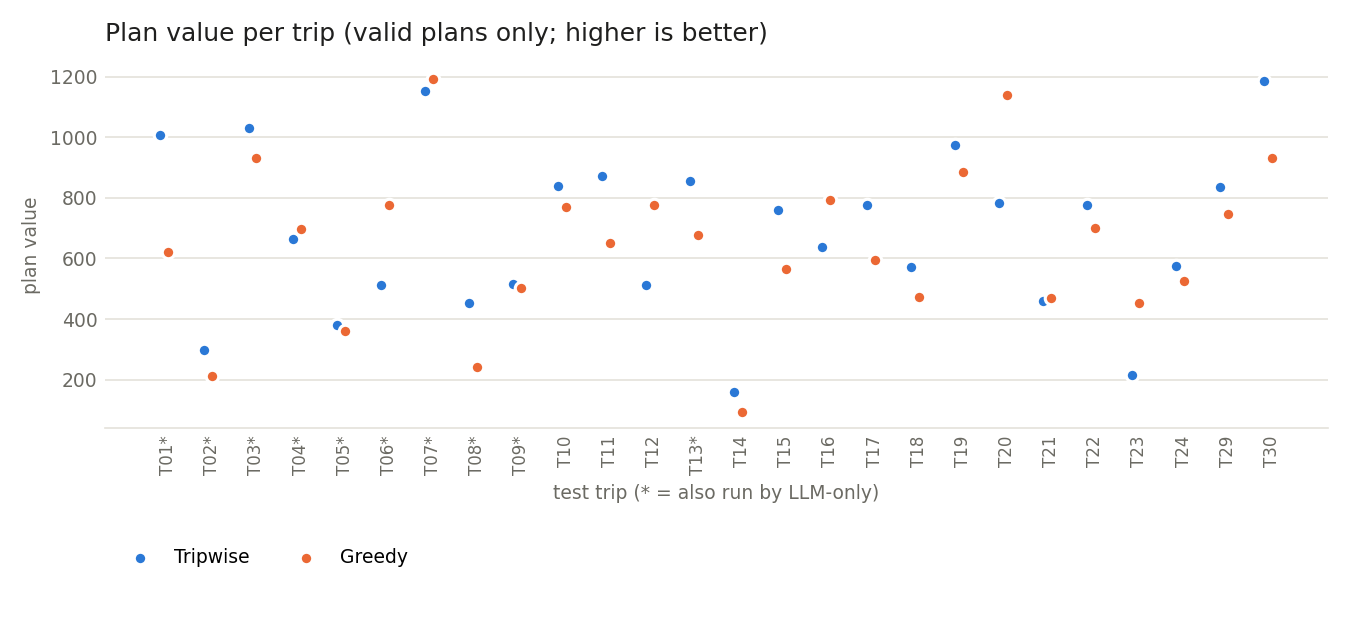
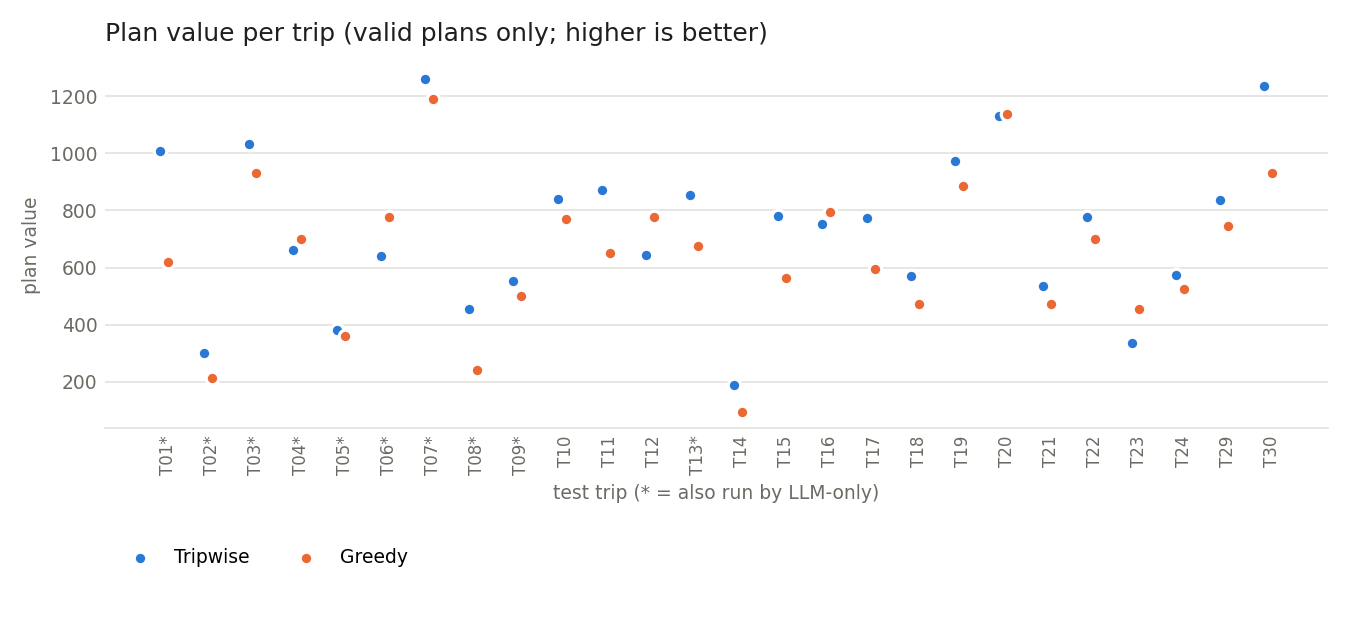
feat(002): fill step after exact routing (ENG-FR-13) and a routing retry for mandatory locks; Tripwise mean value 684.7 -> 729.5, greedy wins 8 -> 6 of 26; ENG-AT-08 p95 559 ms, VAR-AT-03 p95 1,761 ms; all 002 and 007 tests pass [ENG-FR-04, ENG-FR-13, FR-010, EVAL-FR-02]

Changed region(s): [[0.0311, 0.2111, 0.9644, 0.5429], [0.0311, 0.1206, 0.9644, 0.181], [0.0311, 0.573, 0.9644, 0.6333]]

diff --git a/backend/tripwise/stage2.py b/backend/tripwise/stage2.py
@@ -126,6 +126,9 @@ class Routed:
     dropped: list         # [Attraction] chosen in stage 1 but not scheduled
 
 
+LOCK_PENALTY = 10_000_000
+
+
 def route(ds: Dataset, cfg: Config, req: TripRequest, hotel: Hotel, windows: list, chosen: list, v: dict) -> Routed:
     city = req.destination
     locks = set(req.fixed_ids())
@@ -143,36 +146,45 @@ def route(ds: Dataset, cfg: Config, req: TripRequest, hotel: Hotel, windows: lis
         visit = [0] + [a.visit for a in nodes]
         n = len(ids)
         travel = [[0 if i == j else ds.travel(city, ids[i], ids[j])[1] for j in range(n)] for i in range(n)]
-        mgr = pywrapcp.RoutingIndexManager(n, len(active), 0)
-        rt = pywrapcp.RoutingModel(mgr)
+        def solve(soft: bool):
+            mgr = pywrapcp.RoutingIndexManager(n, len(active), 0)
+            rt = pywrapcp.RoutingModel(mgr)
 
-        # node-indexed matrices registered in C++ (no Python callbacks in the search loop)
-        t_cb = rt.RegisterTransitMatrix([[visit[i] + travel[i][j] for j in range(n)] for i in range(n)])
-        rt.SetArcCostEvaluatorOfAllVehicles(rt.RegisterTransitMatrix(travel))
-        rt.AddDimension(t_cb, 1440, 1440, False, "time")
-        tdim = rt.GetDimensionOrDie("time")
-        c_cb = rt.RegisterUnaryTransitVector([0] + [1] * (n - 1))
-        rt.AddDimensionWithVehicleCapacity(c_cb, 0, [w.max_count for w in active], True, "count")
-        # Lunch is not a routing break (breaks slow the search 25-50x): the span bound U_d already leaves
-        # the lunch hour free, and the exact pass places lunch (Changelog 2026-10-25).
-        for vi, w in enumerate(active):
-            tdim.CumulVar(rt.Start(vi)).SetRange(w.start, w.end)
-            tdim.CumulVar(rt.End(vi)).SetRange(w.start, w.end)
-            tdim.SetSpanUpperBoundForVehicle(w.usable, vi)
-        for k, a in enumerate(nodes, start=1):
-            idx = mgr.NodeToIndex(k)
-            hi = a.open if a.fixed_slot else a.close - a.visit
-            tdim.CumulVar(idx).SetRange(a.open, max(a.open, hi))
-            rt.VehicleVar(idx).SetValues([-1] + allowed[a.attraction_id])   # -1: dropped
-            if a.attraction_id not in locks:
-                rt.AddDisjunction([idx], round(1000 * v[a.attraction_id]))
-        params = pywrapcp.DefaultRoutingSearchParameters()
-        params.first_solution_strategy = routing_enums_pb2.FirstSolutionStrategy.PATH_CHEAPEST_ARC
-        params.local_search_metaheuristic = getattr(routing_enums_pb2.LocalSearchMetaheuristic, cfg.routing_metaheuristic)
-        if cfg.routing_solution_limit:
-            params.solution_limit = cfg.routing_solution_limit
-        params.time_limit.FromMilliseconds(int(cfg.routing_time_limit_s * 1000))
-        sol = rt.SolveWithParameters(params)
+            # node-indexed matrices registered in C++ (no Python callbacks in the search loop)
+            t_cb = rt.RegisterTransitMatrix([[visit[i] + travel[i][j] for j in range(n)] for i in range(n)])
+            rt.SetArcCostEvaluatorOfAllVehicles(rt.RegisterTransitMatrix(travel))
+            rt.AddDimension(t_cb, 1440, 1440, False, "time")
+            tdim = rt.GetDimensionOrDie("time")
+            c_cb = rt.RegisterUnaryTransitVector([0] + [1] * (n - 1))
+            rt.AddDimensionWithVehicleCapacity(c_cb, 0, [w.max_count for w in active], True, "count")
+            # Lunch is not a routing break (breaks slow the search 25-50x): the span bound U_d already leaves
+            # the lunch hour free, and the exact pass places lunch (Changelog 2026-10-25).
+            for vi, w in enumerate(active):
+                tdim.CumulVar(rt.Start(vi)).SetRange(w.start, w.end)
+                tdim.CumulVar(rt.End(vi)).SetRange(w.start, w.end)
+                tdim.SetSpanUpperBoundForVehicle(w.usable, vi)
+            for k, a in enumerate(nodes, start=1):
+                idx = mgr.NodeToIndex(k)
+                hi = a.open if a.fixed_slot else a.close - a.visit
+                tdim.CumulVar(idx).SetRange(a.open, max(a.open, hi))
+                rt.VehicleVar(idx).SetValues([-1] + allowed[a.attraction_id])   # -1: dropped
+                if a.attraction_id not in locks:
+                    rt.AddDisjunction([idx], round(1000 * v[a.attraction_id]))
+                elif soft:     # locks may drop only when no route can hold them all
+                    rt.AddDisjunction([idx], LOCK_PENALTY)
+            params = pywrapcp.DefaultRoutingSearchParameters()
+            params.first_solution_strategy = routing_enums_pb2.FirstSolutionStrategy.PATH_CHEAPEST_ARC
+            params.local_search_metaheuristic = getattr(routing_enums_pb2.LocalSearchMetaheuristic, cfg.routing_metaheuristic)
+            if cfg.routing_solution_limit:
+                params.solution_limit = cfg.routing_solution_limit
+            params.time_limit.FromMilliseconds(int(cfg.routing_time_limit_s * 1000))
+            return rt, mgr, rt.SolveWithParameters(params)
+
+        rt, mgr, sol = solve(False)
+        if sol is None and locks & {a.attraction_id for a in nodes}:
+            # with every lock mandatory the first-solution heuristic can fail outright; retry with locks as
+            # very expensive drops so the other stops make room (the engine still rejects a lock left out)
+            rt, mgr, sol = solve(True)
         if sol is None:
             dropped += nodes
         else:

diff --git a/backend/tripwise/engine.py b/backend/tripwise/engine.py
@@ -2,7 +2,7 @@
 
 plan(request) -> Plan | Infeasible | InternalError
   pre-filter → hotel loop (stage 1) → stage 2 → feedback cuts → exact costing and budget repair →
-  validator gate. Variants (variants.py) call run() with other objectives and hotel tiers.
+  fill step (ENG-FR-13) → validator gate. Variants (variants.py) call run() with other objectives and hotel tiers.
 """
 
 from __future__ import annotations
@@ -258,11 +258,61 @@ def run(ctx: Context, mode: str = "max_value", hotels: list | None = None, vstar
         routed = stage2.route(ds, cfg, req, hotel, wins, ch.chosen, ctx.v_all)
         placed = [s.attraction for d in routed.days for s in d.stops]
         b = lines(ctx, hotel, oi, ri, routed)
+    routed, b = fill(ctx, hotel, oi, ri, wins, routed, b, mode, vstar)
+    placed = [s.attraction for d in routed.days for s in d.stops]
     p = build(ctx, hotel, oi, ri, routed, b, len(hotels), iters, repairs, variant, wins, t0)
     fails = validate(p, req, ds, cfg.as_dict())
     if fails:
         return Outcome(InternalError(failures=fails), placed)
     return Outcome(p, placed)
+
+
+def fill(ctx: Context, hotel: Hotel, oi: int, ri: int, wins: list, routed: stage2.Routed, b: dict, mode: str,
+         vstar: float | None) -> tuple[stage2.Routed, dict]:
+    """Fill step (ENG-FR-13): stage 1 chose on estimates, so the exactly routed plan can leave time and money
+    unused. Try the unchosen candidates in descending v(a); put each at its cheapest position in any day where
+    the exact scheduler still fits it (hours, closed days, pace, lunch, window) and keep it only if the exact
+    cost stays within B_u and the variant's objective improves: max_value keeps any value gain; balanced needs
+    ΔV − λ·V*·Δcost/B_u > 0; min_cost (Saver) does not fill. Capped at fill_ms per plan."""
+    ds, cfg, req = ctx.ds, ctx.cfg, ctx.req
+    if mode == "min_cost":
+        return routed, b
+    deadline = time.perf_counter() + cfg.fill_ms / 1000
+    lam, B = cfg.variants["lambda"], ctx.usable
+    days = list(routed.days)
+    used = {s.attraction.attraction_id for d in days for s in d.stops}
+    value_now = plan_value(ctx, hotel, oi, ri, routed)
+    pool = sorted((a for a in ctx.filt.kept if a.attraction_id not in used and a.attraction_id not in req.pins),
+                  key=lambda a: (-ctx.v_all[a.attraction_id], a.attraction_id))
+    for a in pool:
+        if time.perf_counter() > deadline:
+            break
+        best = None
+        for i, w in enumerate(wins):
+            if not w.active or w.weekday in a.closed:
+                continue
+            order = [s.attraction for s in days[i].stops]
+            for pos in range(len(order) + 1):
+                sched = stage2.schedule_day(ds, cfg, req.destination, hotel, w, order[:pos] + [a] + order[pos:])
+                if sched is None:
+                    continue
+                trial = stage2.Routed(days[:i] + [sched] + days[i + 1:], [])
+                tb = lines(ctx, hotel, oi, ri, trial)
+                if tb["total"] > B:
+                    continue
+                key = (tb["total"], sched.back or 0, i, pos)
+                if best is None or key < best[0]:
+                    best = (key, trial, tb)
+        if best is None:
+            continue
+        _, trial, tb = best
+        gain = plan_value(ctx, hotel, oi, ri, trial) - value_now
+        if mode == "balanced":
+            gain -= lam * (vstar or 0) * (tb["total"] - b["total"]) / B
+        if gain > 0:
+            routed, b, days = trial, tb, list(trial.days)
+            value_now = plan_value(ctx, hotel, oi, ri, routed)
+    return routed, b
 
 
 def near_misses(ctx: Context, chosen_ids: set, total: int, hotel: Hotel, wins: list) -> list[NearMiss]:

diff --git a/backend/tests/test_fill.py b/backend/tests/test_fill.py
@@ -1,0 +1,59 @@
+"""Fill step (ENG-FR-13): after exact routing the engine adds unchosen candidates that still fit a day and the budget,
+per variant objective, and the result still passes the validator."""
+
+import json
+from pathlib import Path
+
+from tripwise import config, data, engine
+from tripwise.engine import Context, hotels_for, setup, tiers_for
+from tripwise.models import Plan, TripRequest
+from validator.validate import validate
+
+TRIPS = {t["id"]: t for t in json.loads((Path(__file__).resolve().parents[2] / "eval" / "test_trips.json").read_text(encoding="utf-8"))}
+
+
+def without_fill(monkeypatch, req):
+    monkeypatch.setattr(engine, "fill", lambda ctx, h, oi, ri, w, r, b, m, v: (r, b))
+    return engine.plan(req)
+
+
+def test_fill_adds_value_and_stays_valid(monkeypatch):
+    ds, cfg = data.default(), config.default()
+    req = TripRequest.model_validate(TRIPS["T06"]["request"])       # left room after routing before the fill step
+    filled = engine.plan(req)
+    assert isinstance(filled, Plan) and validate(filled, req, ds, cfg.as_dict()) == []
+    plain = without_fill(monkeypatch, req)
+    n = lambda p: sum(len(d.stops) for d in p.days)   # noqa: E731
+    assert filled.value > plain.value and n(filled) > n(plain)
+    assert filled.budget.total <= filled.budget.usable_budget
+
+
+def test_saver_does_not_fill_and_balanced_pays_for_cost():
+    ds, cfg = data.default(), config.default()
+    req = TripRequest.model_validate(TRIPS["T06"]["request"])
+    ctx = setup(req, ds, cfg)
+    assert isinstance(ctx, Context)
+    out = engine.run(ctx, "max_value", hotels_for(ds, req, tiers_for(req)))
+    exp = out.result
+    hotel = ds.hotels[exp.hotel.hotel_id]
+    # rebuild a routed plan with one stop removed, then check each objective's fill decision on it
+    from tripwise.stage2 import Routed, schedule_day
+    from tripwise.timemodel import day_windows
+    oi = next(i for i, o in enumerate(ctx.outs) if (o.mode, o.cls) == (exp.transport.outbound.mode, exp.transport.outbound.class_)
+              and engine.outbound_times(o, cfg)["depart"] == int(exp.transport.outbound.depart[:2]) * 60 + int(exp.transport.outbound.depart[3:]))
+    ri = next(i for i, r in enumerate(ctx.rets) if (r.mode, r.cls) == (exp.transport.return_.mode, exp.transport.return_.class_)
+              and engine.return_times(r, cfg)["leave_centre"] == int(exp.transport.return_.leave_centre[:2]) * 60 + int(exp.transport.return_.leave_centre[3:]))
+    wins = day_windows(req, cfg, ctx.outs[oi], ctx.rets[ri])
+    orders = [[ds.attractions[s.attraction_id] for s in d.stops] for d in exp.days]
+    last = next(i for i in range(len(orders) - 1, -1, -1) if orders[i])
+    orders[last] = orders[last][:-1]
+    routed = Routed([schedule_day(ds, cfg, req.destination, hotel, w, o) for w, o in zip(wins, orders)], [])
+    b = engine.lines(ctx, hotel, oi, ri, routed)
+    r_saver, b_saver = engine.fill(ctx, hotel, oi, ri, wins, routed, b, "min_cost", exp.value)
+    assert r_saver is routed and b_saver is b                         # Saver never fills
+    r_exp, b_exp = engine.fill(ctx, hotel, oi, ri, wins, routed, b, "max_value", None)
+    assert sum(len(d.stops) for d in r_exp.days) > sum(len(d.stops) for d in routed.days)
+    assert b_exp["total"] <= ctx.usable
+    # Balanced with a huge V* treats every rupee as expensive: nothing is added
+    r_bal, _ = engine.fill(ctx, hotel, oi, ri, wins, routed, b, "balanced", 1e9)
+    assert sum(len(d.stops) for d in r_bal.days) == sum(len(d.stops) for d in routed.days)

diff --git a/eval/run_eval.py b/eval/run_eval.py
@@ -306,8 +306,33 @@ over valid plans. Times: Tripwise and greedy on this laptop; LLM-only includes t
 ## Discussion
 
 {discussion}
+
+{HISTORY}
 """
     (ROOT / "eval" / "RESULTS.md").write_text(text, encoding="utf-8", newline="\n")
+
+
+HISTORY = """## Before and after the fill step (2026-10-26)
+
+After the first evaluation, greedy beat Tripwise on 8 of 26 trips. The engine gained a fill step (ENG-FR-13): after
+exact routing it tries the unchosen candidates in descending value and keeps each one that still fits a day and
+the budget (Experience and the single plan: any value gain; Balanced: ΔV − λ·V*·Δcost/B_u > 0; Saver: no fill).
+A routing fix came with it: when every lock is mandatory and no first route exists, routing retries with locks as
+very expensive drops instead of dropping every stop.
+
+| Tripwise, all 30 trips | Before | After |
+|---|---|---|
+| Valid plans | 26/26 | 26/26 |
+| Mean value | 684.7 | 729.5 |
+| Trips where greedy scores higher | 8 of 26 (T04, T06, T07, T12, T16, T20, T21, T23) | 6 of 26 (T04, T06, T12, T16, T20, T23) |
+| Mean budget use | 71.6% | 72.1% |
+| Mean travel share | 15.2% | 15.6% |
+| Single plan p95 / all variants p95 | 568 ms / 1,531 ms | 559 ms / 1,761 ms |
+
+The fill closed most of the stop-count gap (T20: 15 → 24 stops, value 783 → 1,131; T07 now beats greedy). Where
+greedy still wins, both planners usually have the same number of stops but greedy's are worth more (T06, T12:
+12 against 12): stage 1 chose a lower-value set and the fill can only add, not swap. A swap step is the next
+improvement."""
 
 
 DISCUSSION = """- **Feasibility.** Tripwise returned a validator-clean plan for {tw[valid]}/{tw[feasible_trips]} feasible trips and

diff --git a/SPEC.md b/SPEC.md
@@ -1170,7 +1170,18 @@ Compute the exact local travel cost from the routed legs. If the exact total exc
 
 Locked activities are never removed. If they alone break the budget, the answer is infeasible with `lock_over_budget`.
 
-###### 7.7 Validation
+###### 7.7 Fill step (ENG-FR-13, added 2026-10-26)
+
+Stage 1 selects on estimated time and cost, so the exactly routed and costed plan can leave time and budget unused.
+After 7.6, try every pre-filtered candidate that is not in the plan (and not pinned), in descending v(a):
+
+1. For each day and each position in that day's order, time the day with the exact scheduler (opening hours, closed days, pace limit, lunch, window, U_d) and cost the whole plan exactly.
+2. Of the positions that fit with a total ≤ B_u, take the cheapest (then the earliest return to the hotel).
+3. Keep it if the objective improves: the single plan and Experience keep any gain in plan value; Balanced keeps it only if ΔV − λ·V*·Δcost/B_u > 0 (the stage 1 Balanced objective applied to one addition); Saver does not fill, because it minimises cost.
+
+Stop after `fill_ms` (300 ms). Then validate as in 7.8.
+
+###### 7.8 Validation
 
 Run the validator (section 9) on the final plan. A validator failure is a bug: the engine returns error `internal_validation_failed` with the list of failed checks, and never returns the plan.
 
@@ -1292,6 +1303,7 @@ The validator is a separate module with no imports from the solver code, so it c
 - **ENG-FR-10** The same request and dataset version produce identical output, apart from `solve_ms`. (NFR-008)
 - **ENG-FR-11** A command-line harness runs `python -m tripwise.cli plan <request.json>` and prints a readable plan, or the infeasible message. `python -m tripwise.cli batch eval/test_trips.json` runs all test trips and prints a summary table.
 - **ENG-FR-12** `eval/test_trips.json` holds 30 test trips that meet the coverage rules in section 12.
+- **ENG-FR-13** Fill step (section 7.7): after exact routing and costing, unchosen candidates are tried in descending v(a) and each is kept at its cheapest position in any day where the exact scheduler still fits it, if the exact cost stays within B_u and the variant objective improves. Capped at `fill_ms` (300 ms) per plan. (FR-010; added 2026-10-26)
 
 ##### 12. Test trips — coverage rules
 
@@ -1844,7 +1856,7 @@ Update this table when a feature's tasks are written (fill **Tasks**) and when i
 | FR-005 | Preferences (hours, interests, pace, comfort, modes, crowds) | 004 (merged from 005) | API-FR-01–13 | 004 T03–T10 | API-AT-03 | Pass |
 | FR-006 | Free-text preferences parsed and confirmed | 007 | | | | Planned |
 | FR-007 | Form pre-filled from saved profile | 004 (merged from 005), 006 | API-FR-03 | 004 T06 | API profile tests | Pass |
-| FR-010 | Complete plan produced | 002 | ENG-FR-02–05 | 002 T02–T15 | ENG-AT-01 | Pass |
+| FR-010 | Complete plan produced | 002 | ENG-FR-02–05, 13 | 002 T02–T15; F6 fill step | ENG-AT-01; `tests/test_fill.py`; `eval/RESULTS.md` | Pass |
 | FR-011 | Hard constraints respected | 002 | ENG-FR-01, 04, 07, 08 | 002 T05, T08–T12 | ENG-AT-01, 05 | Pass |
 | FR-012 | Infeasible answer with minimum budget | 002 | ENG-FR-06 | 002 T12 | ENG-AT-07 | Pass |
 | FR-013 | Prices labelled as estimates; breakdown sums exactly | 002, 006 | ENG-FR-02 | 002 T06, T12 | ENG-AT-03 | Pass |
@@ -1920,11 +1932,11 @@ Measured 2026-10-25 on the developer laptop (Windows 11, Python 3.11.9, OR-Tools
 | ENG-AT-05 | Pass | `backend/tests/test_validator.py`: one broken plan per check V-01–V-13, each caught by exactly that check |
 | ENG-AT-06 | Pass | Every `ok` trip run twice: identical output apart from `solve_ms` |
 | ENG-AT-07 | Pass | T25–T27 re-run at their `min_budget_total` (₹78,000, ₹1,26,500, ₹11,000) return `ok` |
-| ENG-AT-08 | Pass | Single plan p95 568 ms, max 707 ms (limit 2,500 ms) |
+| ENG-AT-08 | Pass | Single plan p95 568 ms, max 707 ms (limit 2,500 ms); after the fill step (2026-10-26) p95 559 ms, max 651 ms |
 | ENG-AT-09 | Pass | κ_t 15 → 40 and μ 0.05 → 0.5 in a config copy change the plan with no code edit |
 | VAR-AT-01 | Pass | 26 `ok` trips: 1–3 variants each, every kept pair distinct, every plan validated |
 | VAR-AT-02 | Pass | cost(Saver) ≤ cost(Balanced) ≤ cost(Experience) and V(Saver) ≥ 0.7 V* on every trip |
-| VAR-AT-03 | Pass | All variants p95 1,531 ms, max 1,820 ms (limit 5,000 ms) |
+| VAR-AT-03 | Pass | All variants p95 1,531 ms, max 1,820 ms (limit 5,000 ms); after the fill step (2026-10-26) p95 1,761 ms, max 2,193 ms |
 | VAR-AT-04 | Pass | Trade-offs on 5 trips: every row equals a fresh engine run at that budget |
 
 ### Feature requirements and acceptance tests (004–008)
@@ -2189,3 +2201,6 @@ Run 2026-10-25 with Playwright 1.64.0 (Chromium) against the local API (schema `
 | 2026-10-26 | C 008 (order) | 008 T01 committed while 007 T07 and T09 wait on Groq's daily token limit (owner said to continue 008 and to run the LLM-only baseline only after AI-AT-03) | External quota |
 | 2026-10-26 | C 008 (T02 decisions) | Feasibility is measured over the 26 feasible trips (a validator-clean plan); the 4 must-decline trips are reported as "declined infeasible". EVAL-AT-02 compares every result column except times. Charts go to `eval/charts/` (committed, linked from RESULTS.md); `eval/out/results.csv` and `eval/out/llm_only.json` are committed, the rest of `eval/out/` stays ignored. matplotlib 3.10.8 is pinned in a separate `eval/requirements.txt` so the API stays lean | EVAL-FR-04 asks for PNG charts; the API does not need matplotlib |
 | 2026-10-26 | C 006 (F5) | Design pass with Impeccable (critique 27/40, audit 14/20; every P1 and P2 fixed): the feasibility checks shown as a check row on every variant card, under the Plan detail title and on a labelled example day on Landing; budget headroom (plan total of your budget) on cards and Plan detail; the value bar keeps its 1–5 scale (UI-FR-03) but its text is relative ("Most value of these plans" … "Least value, lowest cost") with a one-line legend; trip facts as chips instead of a subtitle that repeated the name; the Plan detail order is now logistics, Day by day, Map, Nearly made it, Budget, Trade-offs; a quieter timeline ("from the hotel", tabular times, stops lead, lunch pill); a preferences summary line and a sticky Plan my trip bar on phones; My Trips rows with Open as the primary action and a status chip; headings in Bricolage Grotesque (Google Fonts, 600/700; body stays system-ui) and tabular numerals instead of monospace; 44 px minimum controls (`.btn`, new `.btn-sm`, `.btn-text`, nav, tabs, radios, inputs); input borders on a new `sand-500` token (3.75:1); map pin numbers at ≥ 4.5:1 per day (vermilion darkened to #B34F00, dark numbers on light fills) and a white halo on route lines; a page title per route; signed-in pages lazy-loaded and Leaflet CSS loaded with the map (first-load JS 794 KB → 228 KB); the phone chat sheet gets a scrim, focus in and out, a Tab loop and Escape; superseded chat versions say so; the explanations-unavailable notice shows once per page; arrow keys on the My Trips tabs and the Total/Per person radios; Log in, Sign up and Profile focus the first invalid field; reduced-motion skeleton and spinner. Labels, roles, accessible names and the data-estimate / data-not-price markers are unchanged; no API or behaviour change; no new runtime dependency | Owner task F5; 14/14 Playwright tests pass (live chat test skipped, it needs Groq), axe scan clean; screenshots 1–7 retaken, 8-chat not (live only) |
+| 2026-10-26 | C 002 §7.7, ENG-FR-13 | New fill step after exact costing (owner decision): unchosen candidates in descending v(a), cheapest fitting position in any day, kept if the exact cost stays within B_u and the objective improves (single plan and Experience: any value gain; Balanced: ΔV − λ·V*·Δcost/B_u > 0; Saver: none); `fill_ms: 300` in config; validation renumbered 7.8. Result on the 30 trips: Tripwise mean value 684.7 → 729.5, greedy wins 8 → 6 of 26, ENG-AT-08 p95 559 ms, VAR-AT-03 p95 1,761 ms | 008 T01 finding: greedy beat the engine on 8 of 26 trips because nothing used the room left after routing |
+| 2026-10-26 | C 002 §7.4 (fix) | Stage 2: when every lock and pin is mandatory and the first-solution heuristic finds no route, routing is retried with locks as very expensive drops (`LOCK_PENALTY` 10⁷), so other stops make room; a lock still left out is reported as before | Found while testing the fill step: pinning Jagat Shiromani Temple to day 3 or 4 of a 4-day Jaipur trip gave `pin_impossible` although it fits |
+| 2026-10-26 | C 002 (fill decision) | Experience and the single plan keep a fill addition only when plan value rises (not "anything that fits" literally): with the travel penalty an addition can lower value, and a zero-interest stop adds nothing | Keeps the fill consistent with the max-value objective |

diff --git a/eval/RESULTS.md b/eval/RESULTS.md
@@ -16,15 +16,15 @@ over valid plans. Times: Tripwise and greedy on this laptop; LLM-only includes t
 
 | Planner | Feasible trips with a valid plan | Failed plans | Violations (V-xx: trips) | Declined infeasible | Mean value | Total value | Mean budget use | Mean travel share | Median time | Distinct variants |
 |---|---|---|---|---|---|---|---|---|---|---|
-| Tripwise | 26/26 (100%) | 0 | none | 4/4 | 684.742 | 17803.3 | 72% | 15% | 159 ms | 2.538 |
+| Tripwise | 26/26 (100%) | 0 | none | 4/4 | 729.472 | 18966.3 | 72% | 16% | 154 ms | 2.423 |
 | Greedy | 26/26 (100%) | 0 | none | 4/4 | 645.475 | 16782.4 | 69% | 28% | 6 ms | – |
 
 ## Same 10 trips (all three planners)
 
 | Planner | Feasible trips with a valid plan | Failed plans | Violations (V-xx: trips) | Declined infeasible | Mean value | Total value | Mean budget use | Mean travel share | Median time | Distinct variants |
 |---|---|---|---|---|---|---|---|---|---|---|
-| Tripwise | 10/10 (100%) | 0 | none | – | 687.255 | 6872.5 | 72% | 13% | 215 ms | 2.6 |
-| Greedy | 10/10 (100%) | 0 | none | – | 620.894 | 6208.9 | 69% | 27% | 5 ms | – |
+| Tripwise | 10/10 (100%) | 0 | none | – | 714.961 | 7149.6 | 73% | 13% | 208 ms | 2.6 |
+| Greedy | 10/10 (100%) | 0 | none | – | 620.894 | 6208.9 | 69% | 27% | 6 ms | – |
 
 ![Feasibility](charts/feasibility.png)
 ![Value per trip](charts/value.png)
@@ -36,13 +36,35 @@ over valid plans. Times: Tripwise and greedy on this laptop; LLM-only includes t
   correctly declined 4/4 infeasible ones. Greedy, built on the same time and cost functions, was
   also clean (26/26): feasibility comes from the shared model, not from the optimiser.
   LLM-only has not been run yet (`python eval/run_eval.py --llm`).
-- **Value.** Tripwise's mean value is 684.742 against greedy's 645.475, but greedy scored higher on
-  8 of 26 trips (T04, T06, T07, T12, T16, T20, T21, T23). On those trips greedy fits more activities (16.12 against
-  12.88 on average) for about the same share of the budget (0.69 against 0.68): the engine selects
+- **Value.** Tripwise's mean value is 729.472 against greedy's 645.475, but greedy scored higher on
+  6 of 26 trips (T04, T06, T12, T16, T20, T23). On those trips greedy fits more activities (15 against
+  14.67 on average) for about the same share of the budget (0.68 against 0.68): the engine selects
   activities in stage 1 on conservative estimates of time and cost and does not top up the plan after exact routing.
-  Over all trips budget use is similar (0.716 against 0.693). A post-routing fill step
+  Over all trips budget use is similar (0.721 against 0.693). A post-routing fill step
   is the clearest improvement to make next.
 - **Travel.** Tripwise routes each day (OR-Tools), so a smaller share of the day goes on local rides
-  (0.152 against greedy's 0.277).
-- **Variants.** Tripwise showed 2.538 distinct variants per feasible trip on average.
+  (0.156 against greedy's 0.277).
+- **Variants.** Tripwise showed 2.423 distinct variants per feasible trip on average.
 - **Chat intents (EVAL-FR-03).** See AI-AT-03 in `eval/AI_AT_03.md`.
+
+## Before and after the fill step (2026-10-26)
+
+After the first evaluation, greedy beat Tripwise on 8 of 26 trips. The engine gained a fill step (ENG-FR-13): after
+exact routing it tries the unchosen candidates in descending value and keeps each one that still fits a day and
+the budget (Experience and the single plan: any value gain; Balanced: ΔV − λ·V*·Δcost/B_u > 0; Saver: no fill).
+A routing fix came with it: when every lock is mandatory and no first route exists, routing retries with locks as
+very expensive drops instead of dropping every stop.
+
+| Tripwise, all 30 trips | Before | After |
+|---|---|---|
+| Valid plans | 26/26 | 26/26 |
+| Mean value | 684.7 | 729.5 |
+| Trips where greedy scores higher | 8 of 26 (T04, T06, T07, T12, T16, T20, T21, T23) | 6 of 26 (T04, T06, T12, T16, T20, T23) |
+| Mean budget use | 71.6% | 72.1% |
+| Mean travel share | 15.2% | 15.6% |
+| Single plan p95 / all variants p95 | 568 ms / 1,531 ms | 559 ms / 1,761 ms |
+
+The fill closed most of the stop-count gap (T20: 15 → 24 stops, value 783 → 1,131; T07 now beats greedy). Where
+greedy still wins, both planners usually have the same number of stops but greedy's are worth more (T06, T12:
+12 against 12): stage 1 chose a lower-value set and the fill can only add, not swap. A swap step is the next
+improvement.
